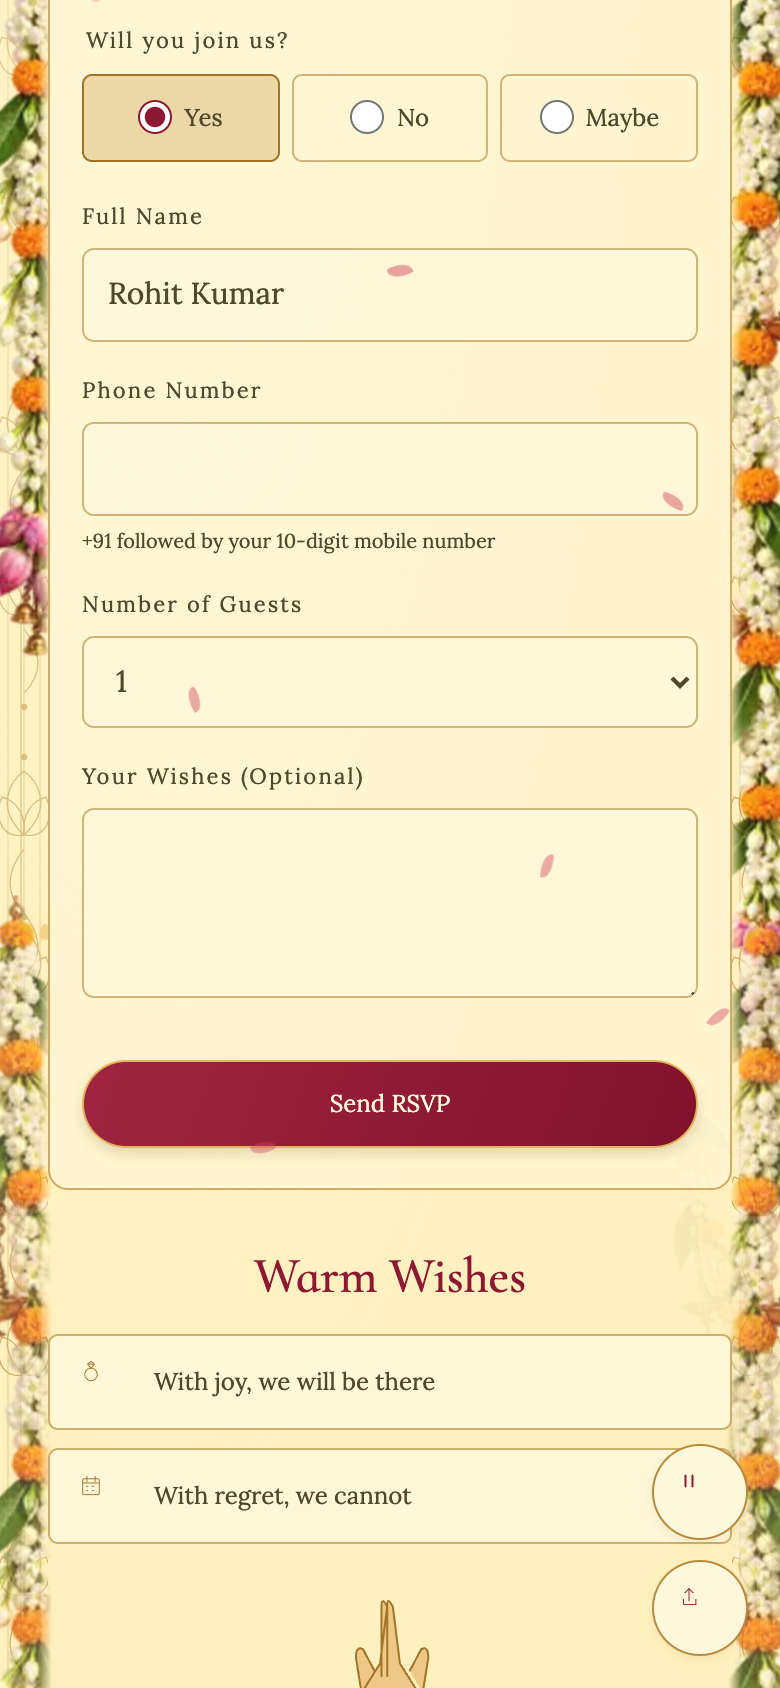
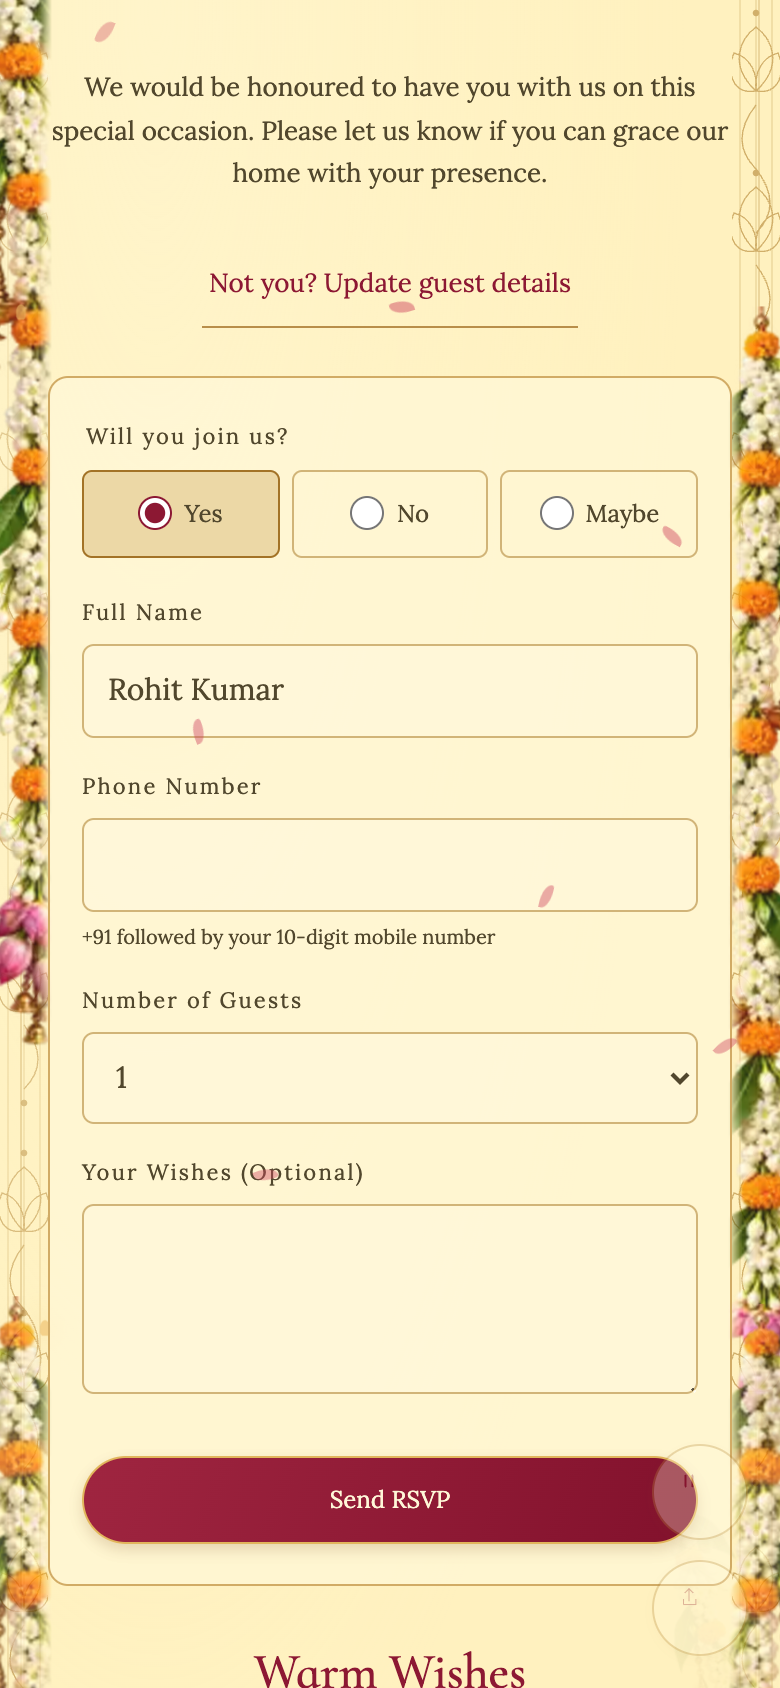
Give the personal invitation a keepsake letter design

diff --git a/themes/griha-mangalam/guest.css b/themes/griha-mangalam/guest.css
@@ -369,5 +369,220 @@ html:not([lang="en"]) .guest-party {
     font-size: 38px;
   }
 }
-.guest-mode .opening-copy .ganesha{margin:0 auto}.guest-long .opening-copy{background:linear-gradient(#fff1bff5 0%,#fff1bff5 97%,transparent 100%)}
-@media(min-width:1024px){.guest-long .opening-copy{background:none}}
+.guest-mode .opening-copy .ganesha {
+  margin: 0 auto;
+}
+.guest-long .opening-copy {
+  background: linear-gradient(#fff1bff5 0%, #fff1bff5 97%, transparent 100%);
+}
+@media (min-width: 1024px) {
+  .guest-long .opening-copy {
+    background: none;
+  }
+}
+/* The recipient's own keepsake letter: authored lotus crest, botanical corners and embossed initial. */
+.personal-invitation.guest-letter {
+  max-width: 660px;
+  margin: 44px auto 12px;
+  padding: 34px 28px 26px;
+  border: 1px solid #b98a3d;
+  background: linear-gradient(115deg, #fff9e9, #fff4d7 55%, #fff9e8);
+  box-shadow:
+    0 9px 24px #875c1910,
+    inset 0 0 0 6px #fff8e6,
+    inset 0 0 0 7px #d9bc80;
+  text-align: center;
+  isolation: isolate;
+}
+.guest-letter:before,
+.guest-letter:after {
+  display: none;
+}
+.letter-art {
+  position: absolute;
+  inset: 0;
+  pointer-events: none;
+  z-index: 0;
+  overflow: hidden;
+}
+.letter-content {
+  position: relative;
+  z-index: 1;
+}
+.letter-corner {
+  position: absolute;
+  width: 61px;
+  height: 61px;
+  color: #a97a35;
+  fill: none;
+  stroke: currentColor;
+  stroke-width: 1;
+  stroke-linecap: round;
+  stroke-linejoin: round;
+}
+.corner-tl {
+  top: 7px;
+  left: 7px;
+}
+.corner-tr {
+  top: 7px;
+  right: 7px;
+  transform: scaleX(-1);
+}
+.corner-bl {
+  bottom: 7px;
+  left: 7px;
+  transform: scaleY(-1);
+}
+.corner-br {
+  bottom: 7px;
+  right: 7px;
+  transform: scale(-1);
+}
+.letter-crest {
+  display: block;
+  width: 132px;
+  height: 51px;
+  margin: 0 auto 15px;
+  stroke: currentColor;
+  stroke-width: 1;
+  color: #a97a35;
+}
+.guest-letter .guest-note-label {
+  font-size: 12px;
+  line-height: 1.5;
+  color: #775321;
+  margin-bottom: 14px;
+}
+.guest-letter .guest-note-name {
+  font-size: clamp(29px, 8vw, 43px);
+  line-height: 1.4;
+  max-width: 100%;
+  padding: 0.15em 0.1em;
+  margin: -0.15em -0.1em;
+  overflow-wrap: anywhere;
+}
+.letter-rule {
+  display: block;
+  width: 130px;
+  height: 18px;
+  stroke: currentColor;
+  stroke-width: 0.8;
+  color: #ae8546;
+  margin: 17px auto 16px;
+}
+.guest-letter .guest-note-copy {
+  font: 17px/1.85 var(--f-display);
+  max-width: 480px;
+  margin: 0 auto;
+}
+.guest-letter .guest-note {
+  font-size: 18px;
+  padding: 18px 10px 0;
+  margin-top: 20px;
+  border-color: #d4b882;
+  white-space: pre-line;
+}
+.guest-seal {
+  position: relative;
+  display: grid;
+  place-items: center;
+  width: 49px;
+  height: 49px;
+  margin: 25px auto 0;
+  border: 1px solid #a47732;
+  border-radius: 50%;
+  background: radial-gradient(circle at 35% 25%, #fae4ab, #eacb83 70%, #d6b06c);
+  box-shadow:
+    inset 0 0 0 3px #f5dea5,
+    inset 0 0 0 4px #b98c42,
+    0 3px 0 #d8bc7b44;
+  color: #76501f;
+}
+.seal-initial {
+  font: 500 25px/1.35 var(--f-display);
+  padding: 0.12em;
+  max-width: 100%;
+}
+.guest-letter .letter-crest {
+  animation: letter-ink 1.1s ease both;
+  animation-play-state: paused;
+}
+.blessing.motion-active .guest-letter .letter-crest {
+  animation-play-state: running;
+}
+html[lang="en"] .guest-letter .guest-note-label {
+  letter-spacing: 0.14em;
+  text-transform: uppercase;
+}
+html:not([lang="en"]) .guest-letter .guest-note-label {
+  font-size: 14px;
+}
+@keyframes letter-ink {
+  from {
+    opacity: 0.3;
+    transform: translateY(5px);
+  }
+  to {
+    opacity: 1;
+    transform: translateY(0);
+  }
+}
+@media (min-width: 600px) {
+  .personal-invitation.guest-letter {
+    padding: 38px 55px 30px;
+  }
+  .letter-corner {
+    width: 80px;
+    height: 80px;
+  }
+  .letter-crest {
+    width: 158px;
+    height: 60px;
+  }
+  .guest-letter .guest-note-name {
+    font-size: 43px;
+  }
+  .guest-letter .guest-note-copy {
+    font-size: 19px;
+  }
+  .guest-letter .guest-note-label {
+    font-size: 13px;
+  }
+}
+@media (min-width: 1024px) {
+  .personal-invitation.guest-letter {
+    padding: 40px 65px 34px;
+  }
+  .letter-corner {
+    width: 90px;
+    height: 90px;
+  }
+  .guest-letter .guest-note-name {
+    font-size: 46px;
+  }
+  .guest-seal {
+    width: 54px;
+    height: 54px;
+  }
+  .seal-initial {
+    font-size: 28px;
+  }
+}
+@media (max-width: 359px) {
+  .personal-invitation.guest-letter {
+    padding: 30px 22px 25px;
+  }
+  .letter-corner {
+    width: 49px;
+    height: 49px;
+  }
+  .guest-letter .guest-note-copy {
+    font-size: 16px;
+  }
+}
+@media (prefers-reduced-motion: reduce) {
+  .guest-letter .letter-crest {
+    animation: none;
+  }
+}

diff --git a/themes/griha-mangalam/guest.js b/themes/griha-mangalam/guest.js
@@ -1,4 +1,4 @@
-import { el, add, button } from "../../shared/core.js";
+import { el, add, button, svg } from "../../shared/core.js";
 const text = (v, max = 160) =>
   typeof v === "string"
     ? Array.from(v.replace(/[\u0000-\u001f\u007f]/g, " ").trim())
@@ -60,19 +60,64 @@ export function recipientAddress(recipient, c) {
   });
   return box;
 }
+function letterCorner() {
+  const n = svg(
+    '<path d="M8 94V25Q8 8 25 8H94M15 80V29q0-14 14-14h51"/><path d="M21 56q2-25 30-35M21 40Q3 29 20 21q14 3 8 14M32 29Q30 8 47 16q7 11-8 15M43 24q9-18 22-8-2 12-17 12M24 48q17-2 16-18-16 1-16 18ZM27 62q20-3 17-19-16 1-17 19Z" fill="currentColor" fill-opacity=".12"/><path d="M29 76q-10-12 1-20 13 1 12 12-1 12-13 8Zm27-47q-12-10-20 1 1 13 12 12 12-1 8-13Z"/><circle cx="23" cy="23" r="3" fill="currentColor"/><circle cx="76" cy="15" r="1.5" fill="currentColor"/><circle cx="15" cy="76" r="1.5" fill="currentColor"/>',
+    "0 0 100 100",
+  );
+  n.classList.add("letter-corner");
+  n.setAttribute("aria-hidden", "true");
+  return n;
+}
+function letterCrest() {
+  const n = svg(
+    '<path d="M12 46h46m84 0h46M100 56c-30-17-26-37 0-52 26 15 30 35 0 52ZM100 56C69 46 57 26 70 12q28 7 30 44Zm0 0c31-10 43-30 30-44q-28 7-30 44ZM100 56C64 61 47 44 50 31q32-3 50 25Zm0 0c36 5 53-12 50-25q-32-3-50 25Z" fill="currentColor" fill-opacity=".08"/><path d="M67 62q33-8 66 0M76 67q24-4 48 0M100 14v36M24 42l5 4-5 4m152-8-5 4 5 4"/><circle cx="60" cy="46" r="2" fill="currentColor"/><circle cx="140" cy="46" r="2" fill="currentColor"/>',
+    "0 0 200 76",
+  );
+  n.classList.add("letter-crest");
+  n.setAttribute("aria-hidden", "true");
+  return n;
+}
 export function personalMessage(recipient, c) {
-  const box = el("aside", "personal-invitation"),
+  const box = el("aside", "personal-invitation guest-letter"),
+    art = el("div", "letter-art");
+  art.setAttribute("aria-hidden", "true");
+  for (const position of ["tl", "tr", "bl", "br"]) {
+    const corner = letterCorner();
+    corner.classList.add("corner-" + position);
+    art.append(corner);
+  }
+  const content = el("div", "letter-content"),
     title = el("p", "guest-note-label", c.guestNoteTitle),
     name = el("h3", "guest-note-name"),
     message = el("p", "guest-note-copy"),
     note = el("blockquote", "guest-note");
-  add(box, title, name, message, note);
+  const seal = el("div", "guest-seal");
+  seal.setAttribute("aria-hidden", "true");
+  const initial = el("span", "seal-initial");
+  seal.append(initial);
+  const rule = svg(
+    '<path d="M2 10h62m36 0h62M72 10l10-7 10 7-10 7Z"/><circle cx="82" cy="10" r="2" fill="currentColor"/>',
+    "0 0 164 20",
+  );
+  rule.classList.add("letter-rule");
+  rule.setAttribute("aria-hidden", "true");
+  add(content, letterCrest(), title, name, rule, message, note, seal);
+  add(box, art, content);
   recipient.bind(() => {
     box.hidden = !recipient.state.name;
     name.textContent = recipient.display + ",";
     message.textContent = c.guestMessage;
     note.textContent = recipient.state.note;
     note.hidden = !recipient.state.note;
+    initial.textContent =
+      typeof Intl.Segmenter === "function"
+        ? [
+            ...new Intl.Segmenter(undefined, {
+              granularity: "grapheme",
+            }).segment(recipient.state.name),
+          ][0]?.segment || ""
+        : Array.from(recipient.state.name)[0] || "";
   });
   return box;
 }

diff --git a/themes/griha-mangalam/GUEST_PERSONALIZATION.md b/themes/griha-mangalam/GUEST_PERSONALIZATION.md
@@ -36,3 +36,6 @@ This is a visual/interaction pilot, not a guest authentication or invitation-ID 
 `node themes/griha-mangalam/qa/check.mjs`: existing invitation interactions pass; its required-name check now deliberately clears the prefilled guest name before testing empty fields.
 
 Required shoot and asset/runtime budgets are checked again; see shoot-report.txt and asset-report.txt. No new raster images or fonts are introduced. Customer review of this one pilot is required before propagating guest personalization to other themes.
+
+## Personal letter artwork refinement
+The user requested a distinctive design specifically for the personal-message card. It now uses an original authored SVG lotus crest, four independently positioned botanical corner engravings, a fine double brass border, luminous paper and a decorative embossed guest-initial seal. SVG corners keep their proportions as long text expands the card. The initial uses Unicode grapheme segmentation so Indic vowel signs stay attached; it updates after identity correction. It is decorative, hidden from assistive technology and makes no identity-verification claim. All guest content remains live safe text. No new raster assets, fonts or shared behaviors were added. Guest QA now verifies the initial updates from K to R along with the existing flow; phone and desktop personal-card captures were refreshed.

diff --git a/themes/griha-mangalam/DESIGN.md b/themes/griha-mangalam/DESIGN.md
@@ -190,3 +190,6 @@ User explicitly requested the two housewarming and two birthday themes together,
 
 ## Guest-first pilot
 A user-requested single-theme prototype adds a prominent named opening, personal invitation panel, prefilled/correctable RSVP and attendance-aware closing. Guest names use the Indic-safe display serif, never the decorative script. Optional individual/couple/family data is supported without inferred honorifics. Other themes are intentionally unchanged pending user review. See GUEST_PERSONALIZATION.md for data, integration boundaries and validation.
+
+### Personal-message letter refinement
+Only the guest personal-message card receives a new keepsake-letter design: independently scaled botanical SVG corners, lotus crest, fine double brass edging, warm paper and a decorative guest-initial seal. Existing opening, RSVP, closing and other themes retain their behavior. Guest QA, required shoot and asset/runtime budget checks were rerun; phone/desktop captures were visually reviewed. Details are in GUEST_PERSONALIZATION.md.

diff --git a/themes/griha-mangalam/ASSETS.md b/themes/griha-mangalam/ASSETS.md
@@ -24,3 +24,5 @@ Google Fonts: Cormorant Infant, Lora and Great Vibes, distributed under the SIL 
 The live sample is a fictional family and address for demonstration. No third-party photographs, songs, branding, embedded text, or external image dependencies are included. Shared QR encoding is the repository’s local MIT component.
 
 New October 26 refinement: `assets/ceremonial-rail.webp` is an original built-in image_gen transparent side-border illustration. Transparent bounds were trimmed, resized to (78, 509) and saved as WebP quality 53; original alpha retained. Exact prompt and original PNG path are in generation-prompts.json.
+
+Personal-letter refinement: the lotus crest and botanical corner engravings are original authored static SVG in guest.js. The guest initial is live Unicode text; no external icon/art library or bitmap was added.
